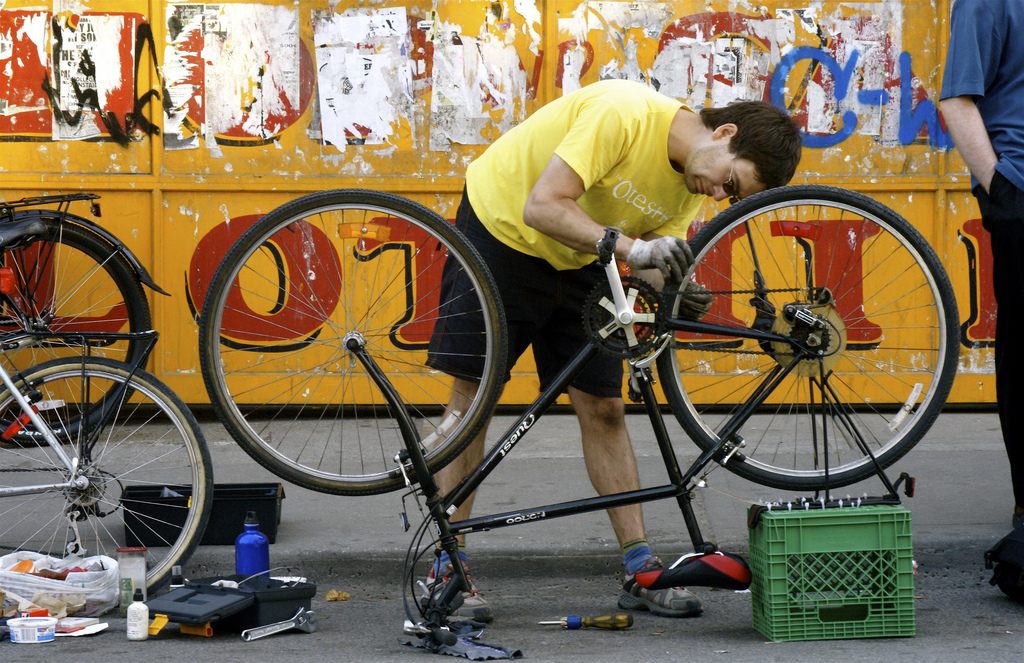
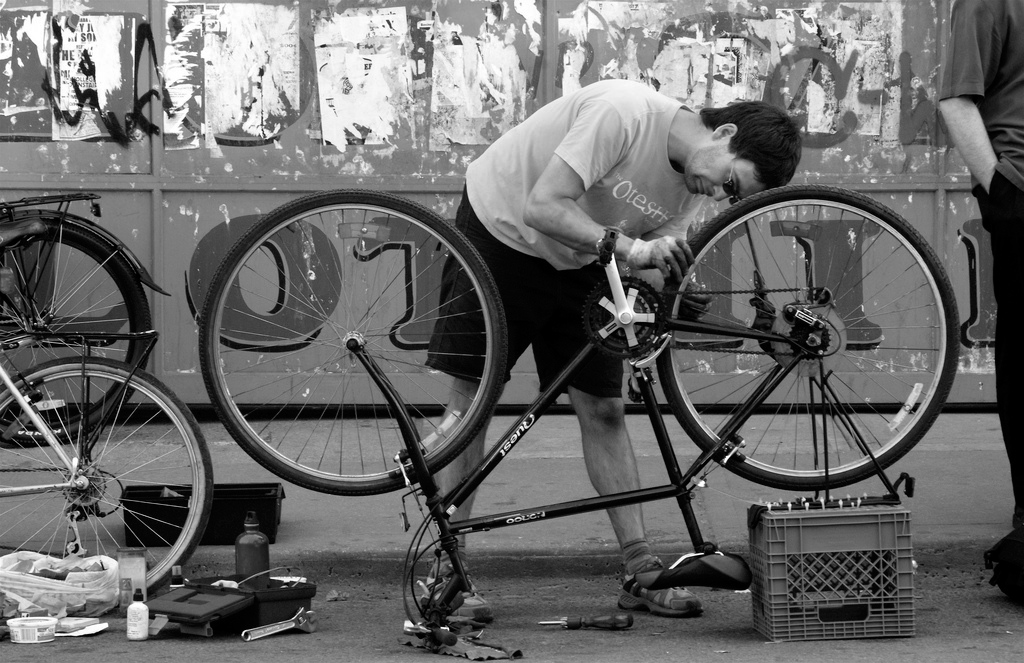
Nav Bar

diff --git a/public/css/app.css b/public/css/app.css
@@ -2,7 +2,7 @@
 
 * {
   font-family: 'Open Sans', 'Open Sans Condensed', sans-serif;
-  margin: 0 !important;
+  margin: 0;
   padding: 0;
   transition: 0.2s ease;
   -moz-box-sizing: border-box;
@@ -15,8 +15,11 @@
 }
 
 a,
+ul,
+li,
 img {
   border: none;
+  margin: 0;
 }
 
 a:hover,
@@ -40,19 +43,13 @@ body {
 
 
 
-
-
-
-
-
-
-
 /*  NAV LIST  */
 
 .nav-list {
-  height: 80px;
+  background: white;
+  box-shadow: 0 0 8px rgba(0,0,0,.2);
   left: 0;
-  padding: 0 8%;
+  padding: 10px 8%;
   position: absolute;
   top: 0;
   width: 100%;
@@ -61,18 +58,15 @@ body {
 
 
 .logo {
+  color: #FF9933;
   display: inline-block;
-  width: 60px;
-  height: 60px;
-  border: none !important;
-  position: relative;
-  top: 10px;
+  font-weight: 200;
+  font-size: 18px;
 }
 
 .nav-list ul {
   display: inline-block;
-  position: absolute;
-  top: 32px;
+  margin-left: 20px;
 }
 
 .nav-list ul li {
@@ -96,174 +90,42 @@ body {
     text-decoration: none;
   }
 
-.store-link {
-  background-color: #FF0033;
-  background-image: url(images/fallback-gradient.png);
-  background-image: -webkit-gradient(linear, 0% 0%, 0% 100%, from(#FC5E59), to(rgba(206, 5, 5, 0.78)));
-  background-image: -webkit-linear-gradient(top, #FC5E59, rgba(206, 5, 5, 0.78));
-  background-image: -moz-linear-gradient(top, #FC5E59, rgba(206, 5, 5, 0.78));
-  background-image: -ms-linear-gradient(top, #FC5E59, rgba(206, 5, 5, 0.78));
-  background-image: -o-linear-gradient(top, #FC5E59, rgba(206, 5, 5, 0.78));
-  border-radius: 0 0 6px 6px;
-  box-shadow: 1px 1px 9px rgba(0,0,0,.12);
-  color: white;
-  font-family: 'Open Sans';
-  font-size: 17px;
-  font-weight: 400;
-  letter-spacing: .02em;
-  padding: 90px 20px 17px;
-  position: absolute;
-  right: 10%;
-  top: 0;
-  text-transform: uppercase;
-  text-shadow: 0 0 4px rgba(0,0,0,.2);
-  transition: padding 0.2s ease;
-  z-index: 3;
-}
-
-  .store-link:hover,
-  .store-link.active {
-    box-shadow: 1px 1px 6px rgba(0,0,0,.2);
-    color: white;
-    padding: 94px 20px 19px;
-    text-shadow: 0 0 4px rgba(0,0,0,.2);
-  }
-
-
-
-
-
-
-
-
-
-
-
-
-/*  FOOTER  */
-
-.footer {
-  padding: 8px 0;
-  border-top: 1px solid #f7f7f7;
-  width: 70%;
-  margin-left: 15%;
-}
-
-.footer-list {
+.contact-us {
+  -webkit-border-radius: 20px;
+  -moz-border-radius: 20px;
+  -ms-border-radius: 20px;
+  -o-border-radius: 20px;
+  border-radius: 20px;
+  -webkit-transition: -webkit-transform 0.3s ease-in-out, background-color 0.3s ease-in-out, color 0.3s ease-in-out;
+  -moz-transition: -webkit-transform 0.3s ease-in-out, background-color 0.3s ease-in-out, color 0.3s ease-in-out;
+  -ms-transition: -webkit-transform 0.3s ease-in-out, background-color 0.3s ease-in-out, color 0.3s ease-in-out;
+  -o-transition: -webkit-transform 0.3s ease-in-out, background-color 0.3s ease-in-out, color 0.3s ease-in-out;
+  transition: -webkit-transform 0.3s ease-in-out, background-color 0.3s ease-in-out, color 0.3s ease-in-out;
+  -webkit-transition: 0.3s ease-in-out -moz-transform;
+  -moz-transition: 0.3s ease-in-out -moz-transform;
+  -ms-transition: 0.3s ease-in-out -moz-transform;
+  -o-transition: 0.3s ease-in-out -moz-transform;
+  transition: 0.3s ease-in-out -moz-transform;
+  -webkit-transition: 0.3s ease-in-out transform;
+  -moz-transition: 0.3s ease-in-out transform;
+  -ms-transition: 0.3s ease-in-out transform;
+  -o-transition: 0.3s ease-in-out transform;
+  transition: 0.3s ease-in-out transform;
+  background-color: white;
+  border: 1px solid #FF9933;
+  color: #FF9933;
+  float: right;
+  font-size: .8rem;
+  font-variant: small-caps;
+  padding: 2px 15px 4px;
   text-align: center;
+  text-decoration: none;
+  text-transform: lowercase;
+  letter-spacing: 0.05em;
 }
 
-.footer-list a {
-    color: #ccc;
-}
-
-.footer-list a li {
-  display: inline-block;
-  list-style: none;
-}
-
-.footer-list a li i {
-  font-size: 22px;
-  margin-right: 7px;
-}
-
-.footer-list a li span {
-  color: #bbb;
-  font-size: 14px;
-  margin-right: 22px;
-  vertical-align: top;
-  position: relative;
-  top: 1px;
-}
-
-  .footer-list a li span:hover {
-    color: #999;
-    text-decoration: underline;
-  }
-
-.footer-list i:hover {
-  color: #777;
-  cursor: pointer;
-}
-
-
-
-
-
-
-
-
-
-/*  COLORS  */
-
-.arabic-color {
-  color: #D8B528 !important;
-}
-.french-color {
-  color: #BD9AC8 !important;
-}
-.german-color {
-  color: #60C2DD !important;
-}
-.hebrew-color {
-  color: #0423DC !important;
-}
-.italian-color {
-  color: #69BD45 !important;
-}
-.mandarin-color {
-  color: #ED4344 !important;
-}
-.portuguese-color {
-  color: #A44041 !important;
-}
-.saspanish-color {
-  color: #65C3A4 !important;
-}
-.euspanish-color {
-  color: #F39263 !important;
-}
-
-.store-button {
-  border: none;
+.contact-us:hover {
+  background-color: #FF9933;
   color: white;
-  float: none;
-  padding: 6px;
-}
-
-.store-button:hover {
-  box-shadow: 1px 1px 4px rgba(0,0,0,.1) inset;
-  padding: 6px 8px;
-}
-
-.arabic-button {
-  background-color: #D8B528 !important;
-}
-.french-button {
-  background-color: #BD9AC8 !important;
-}
-.german-button {
-  background-color: #60C2DD !important;
-}
-.hebrew-button {
-  background-color: #0423DC !important;
-}
-.italian-button {
-  background-color: #69BD45 !important;
-}
-.mandarin-button {
-  background-color: #ED4344 !important;
-}
-.portuguese-button {
-  background-color: #A44041 !important;
-}
-.saspanish-button {
-  background-color: #65C3A4 !important;
-}
-.euspanish-button {
-  background-color: #F39263 !important;
-}
-
-.modal.fade {
-  top: -100%;
+  text-decoration: none;
 }

diff --git a/public/js/controllers.js b/public/js/controllers.js
@@ -122,7 +122,7 @@ angular.module('myApp.controllers', []).
 
     $scope.images = [
       {
-        'src': "/images/garage.jpg",
+        'src': "/images/garage_bw.jpg",
         'headline': 'Whether your bike needs dusting ...',
         'blurb': "(We'll come to your place and bring your bike back to life)"
 
@@ -143,7 +143,7 @@ angular.module('myApp.controllers', []).
         'blurb': "(Not too much we can do.  But, we'll give you a ride home)"
       },
       {
-        'src': "/images/stolen.jpg",
+        'src': "/images/mechanic.jpg",
         'headline': 'We got your back',
         'blurb': "(We go out of our way to )"
       }
